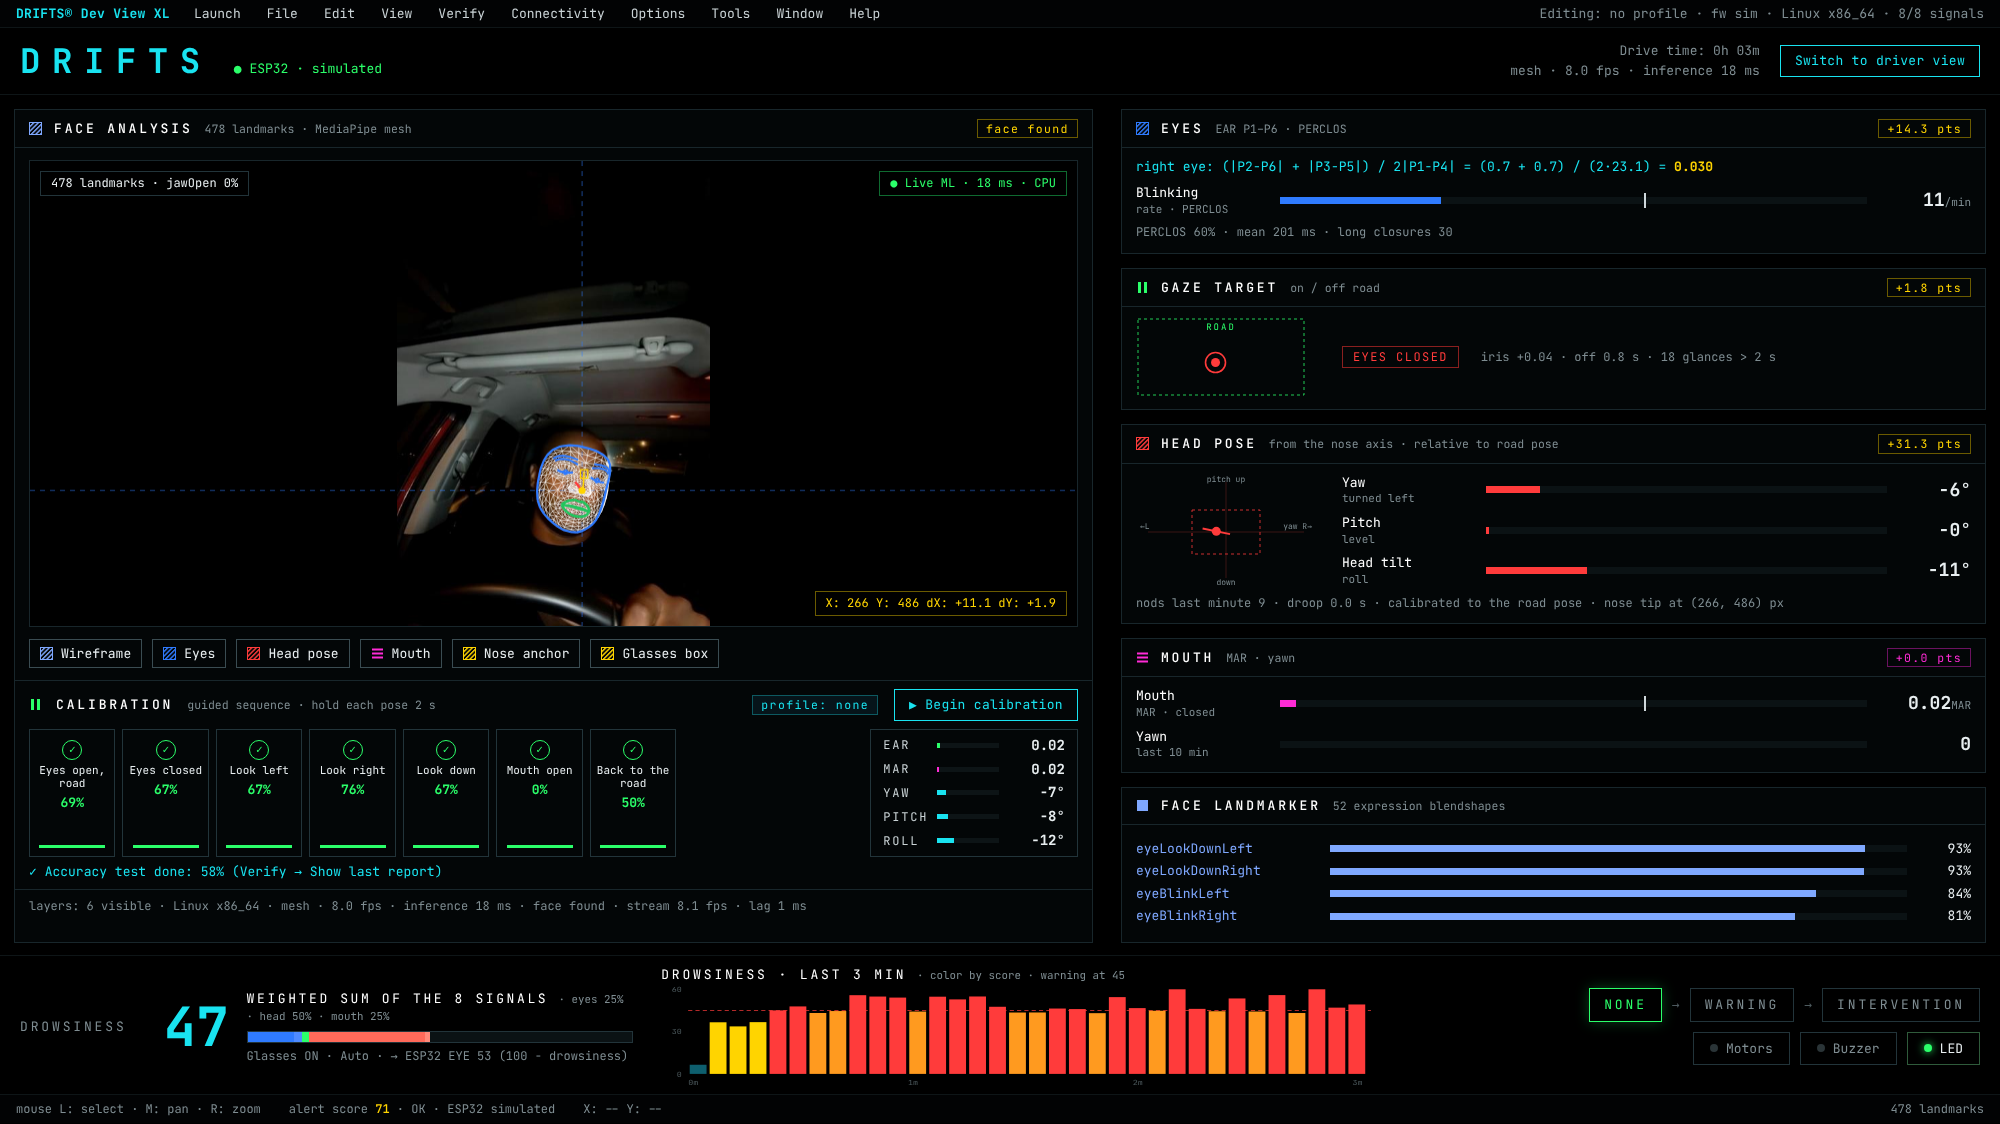
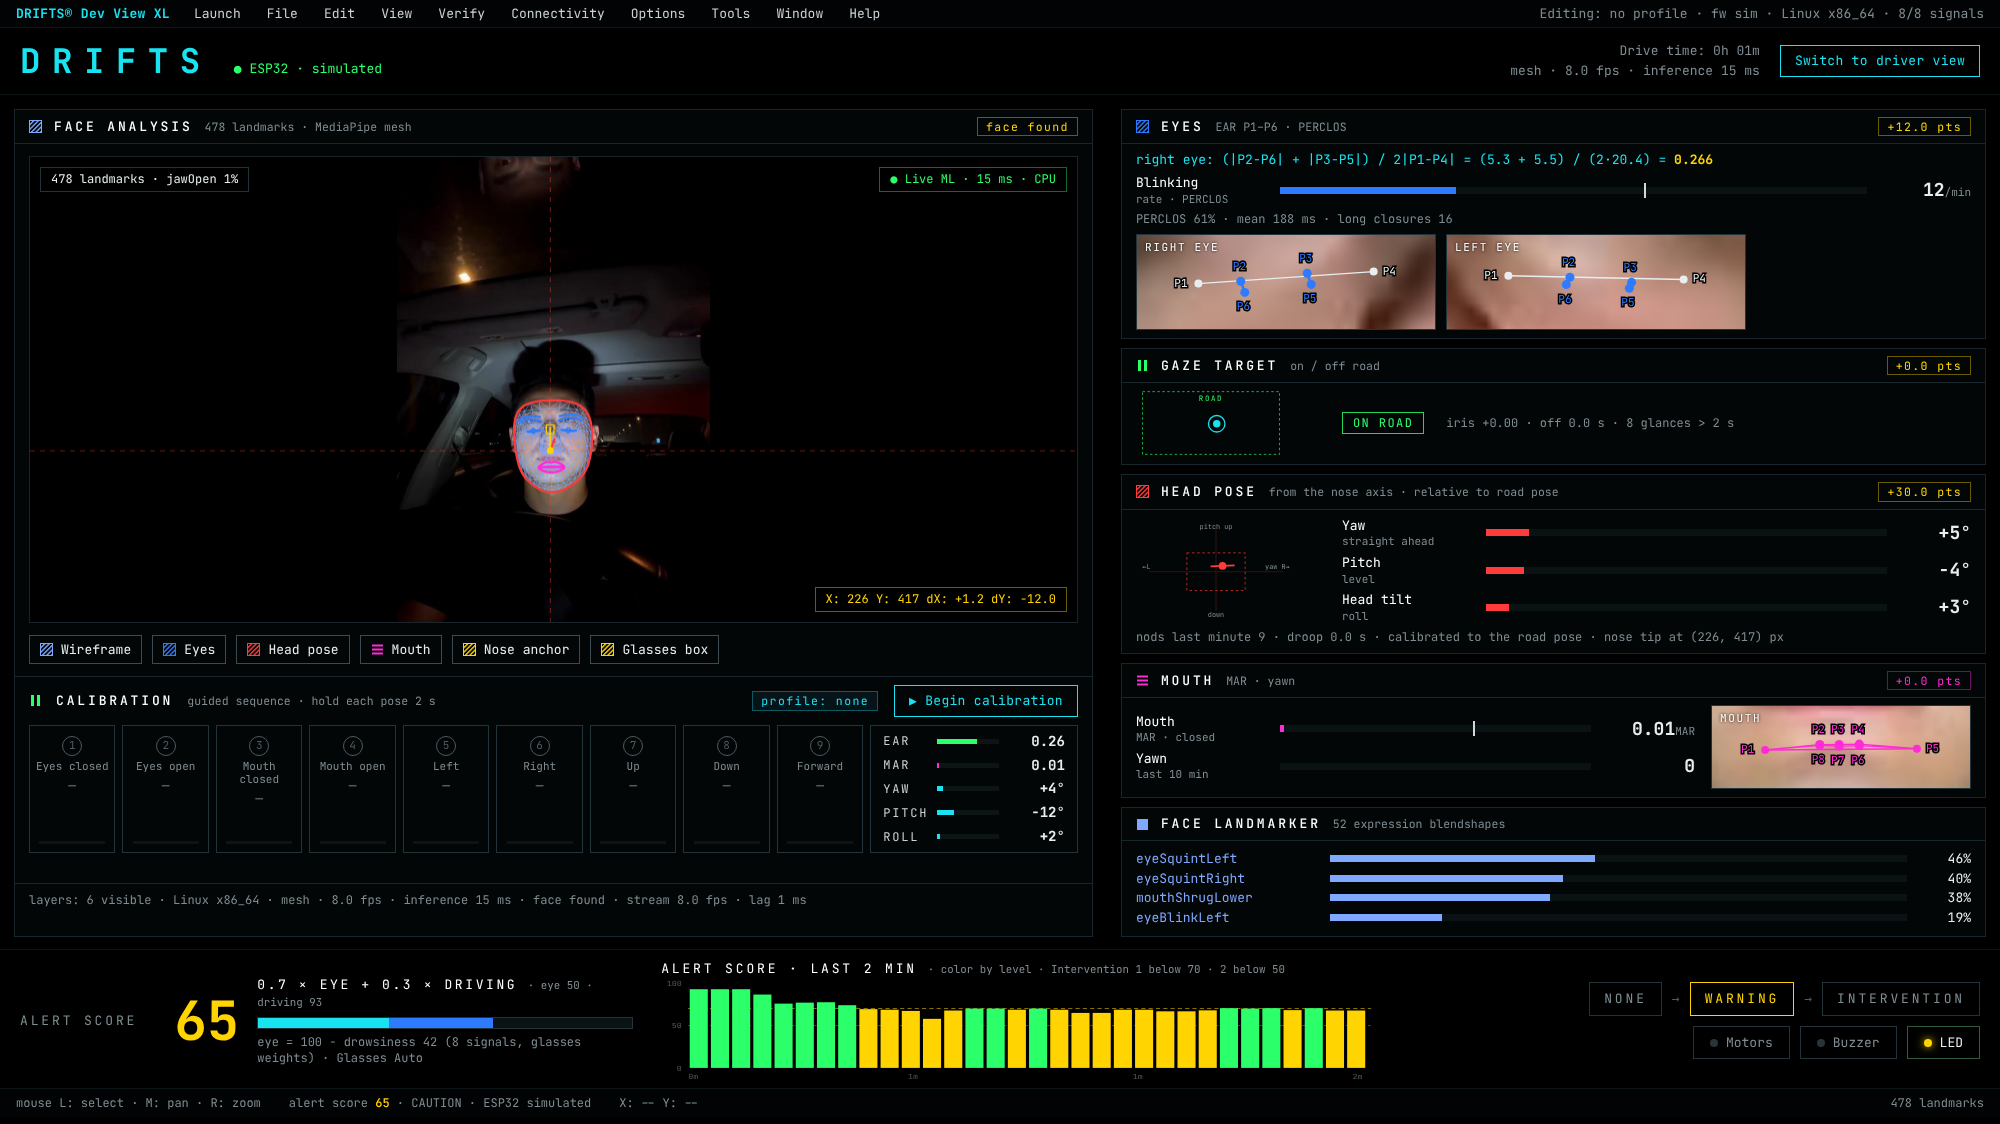
Dev view: alert score in the bottom bar, P-labelled eye and mouth close-ups
- The bottom bar shows the ESP32's alert score (0.7 x eye + 0.3 x driving)
  in its level colour, with the eye / driving split and the drowsiness
  behind the eye part. The session chart is the alert score (green >= 70,
  yellow 50-69, red < 50, dashed lines at 70 and 50).
- Close-ups drawn in the browser from the camera frame and landmarks:
  right and left eye with P1-P6, mouth with P1-P8, as used by EAR and MAR.
- Mesh colours match the layer legend: wireframe light blue, eyes blue,
  head pose red, mouth magenta, nose anchor and glasses yellow.

diff --git a/Raspberry/drifts/devview.html b/Raspberry/drifts/devview.html
@@ -37,7 +37,7 @@ button{font:inherit;color:inherit;background:none;border:0;cursor:pointer}
 /* grid */
 .grid{display:grid;grid-template-columns:minmax(0,1.11fr) minmax(0,.89fr);gap:28px;padding:14px 14px 0}
 .panel{border:1px solid var(--line);background:var(--panel)}
-.ph{display:flex;align-items:center;gap:12px;padding:9px 14px;border-bottom:1px solid var(--line)}
+.ph{display:flex;align-items:center;gap:12px;padding:7px 14px;border-bottom:1px solid var(--line)}
 .ph .t{letter-spacing:.22em;color:#fff;font-weight:500}
 .ph .s{color:var(--muted);font-size:11.5px}
 .ph .r{margin-left:auto}
@@ -79,21 +79,27 @@ button{font:inherit;color:inherit;background:none;border:0;cursor:pointer}
 .prompt{margin-top:6px;color:var(--cyan);min-height:16px}
 .foot{padding:8px 14px 10px;color:var(--muted);font-size:12px;border-top:1px solid var(--line)}
 /* right column */
-.rcol{display:flex;flex-direction:column;gap:14px}
-.pb{padding:10px 14px 12px}
+.rcol{display:flex;flex-direction:column;gap:9px}
+.pb{padding:7px 14px 8px}
 .formula{color:var(--cyan);white-space:nowrap;overflow:hidden;text-overflow:ellipsis}.formula b{color:var(--yellow)}
-.srow{display:grid;grid-template-columns:130px 1fr 90px;gap:14px;align-items:center;margin-top:8px}
+.srow{display:grid;grid-template-columns:130px 1fr 90px;gap:14px;align-items:center;margin-top:5px}
 .srow .n{color:#fff}.srow .n small{display:block;color:var(--muted);font-size:11px}
 .srow .v{text-align:right;font-size:18px;font-weight:700}.srow .v small{font-size:11px;color:var(--muted);font-weight:400}
 .track{position:relative;height:7px;background:#0b1214}
 .track u{position:absolute;left:0;top:0;bottom:0}
 .track s{position:absolute;top:-4px;bottom:-4px;width:2px;background:#cfd8db}
-.sub{color:var(--muted);font-size:12px;margin-top:8px}
+.sub{color:var(--muted);font-size:12px;margin-top:5px}
 .two{display:grid;grid-template-columns:190px 1fr;gap:16px;align-items:center}
 .pill{display:inline-block;padding:2px 10px;border:1px solid;font-size:12px;letter-spacing:.12em}
 .pill.on{color:var(--green);border-color:var(--green2)}.pill.off{color:var(--red);border-color:#8a1f1f}.pill.mid{color:var(--muted);border-color:var(--line2)}
-.bs{display:grid;grid-template-columns:180px 1fr 50px;gap:14px;align-items:center;margin:5px 0}
+.bs{display:grid;grid-template-columns:180px 1fr 50px;gap:14px;align-items:center;margin:2px 0}
 .bs .n{color:var(--blue2)}.bs .v{text-align:right}
+/* close-ups */
+.zooms{display:flex;gap:10px;margin-top:6px}
+.zoom{position:relative;flex:1;min-width:0;border:1px solid var(--line2);background:#000;height:96px;max-width:300px}
+.zoom canvas{position:absolute;inset:0;width:100%;height:100%}
+.zoom span{position:absolute;left:8px;top:5px;font-size:11px;letter-spacing:.15em;color:#fff;text-shadow:0 0 3px #000;pointer-events:none}
+.mgrid{display:grid;grid-template-columns:minmax(0,1fr) 260px;gap:16px;align-items:center}
 /* bottom bar */
 .bottom{display:grid;grid-template-columns:minmax(0,.95fr) minmax(0,1.1fr) minmax(0,.9fr);gap:28px;align-items:center;padding:10px 20px 6px;border-top:1px solid #0e1517;margin-top:12px}
 .dz{display:flex;align-items:center;gap:18px}
@@ -184,16 +190,17 @@ button{font:inherit;color:inherit;background:none;border:0;cursor:pointer}
   <div class="pb"><div class="formula" id="formula">right eye: (|P2-P6| + |P3-P5|) / 2|P1-P4|</div>
    <div class="srow"><div class="n">Blinking<small>rate · PERCLOS</small></div><div class="track"><u id="b-blink" style="background:var(--blue)"></u><s id="k-blink" style="left:62%"></s></div>
     <div class="v" id="v-blink">--<small>/min</small></div></div>
-   <div class="sub" id="s-blink">--</div></div>
+   <div class="sub" id="s-blink">--</div>
+   <div class="zooms"><div class="zoom"><canvas id="z-re"></canvas><span>RIGHT EYE</span></div><div class="zoom"><canvas id="z-le"></canvas><span>LEFT EYE</span></div></div></div>
  </section>
  <section class="panel">
   <div class="ph"><span class="ic" data-ic="bars-g"></span><span class="t">GAZE TARGET</span><span class="s">on / off road</span><span class="r chip y" id="pt-gaze">+0.0 pts</span></div>
-  <div class="pb two"><svg id="gazebox" viewBox="0 0 170 80" width="170" height="80"></svg>
+  <div class="pb two"><svg id="gazebox" viewBox="0 0 170 80" width="150" height="66"></svg>
    <div><span class="pill mid" id="gazepill">--</span> <span class="sub" id="s-gaze" style="margin-left:14px">--</span></div></div>
  </section>
  <section class="panel">
   <div class="ph"><span class="ic" data-ic="head"></span><span class="t">HEAD POSE</span><span class="s">from the nose axis · relative to road pose</span><span class="r chip y" id="pt-head">+0.0 pts</span></div>
-  <div class="pb"><div class="two"><svg id="xybox" viewBox="0 0 180 112" width="180" height="112"></svg>
+  <div class="pb"><div class="two"><svg id="xybox" viewBox="0 0 180 112" width="160" height="96"></svg>
    <div>
     <div class="srow" style="grid-template-columns:130px 1fr 70px;margin-top:0"><div class="n">Yaw<small id="d-yaw">--</small></div><div class="track"><u id="b-yaw" style="background:var(--red)"></u></div><div class="v" id="v-yaw">--°</div></div>
     <div class="srow" style="grid-template-columns:130px 1fr 70px"><div class="n">Pitch<small id="d-pitch">--</small></div><div class="track"><u id="b-pitch" style="background:var(--red)"></u></div><div class="v" id="v-pitch">--°</div></div>
@@ -203,9 +210,10 @@ button{font:inherit;color:inherit;background:none;border:0;cursor:pointer}
  </section>
  <section class="panel">
   <div class="ph"><span class="ic" data-ic="mouth"></span><span class="t">MOUTH</span><span class="s">MAR · yawn</span><span class="r chip m" id="pt-mouth">+0.0 pts</span></div>
-  <div class="pb">
+  <div class="pb mgrid"><div>
    <div class="srow" style="margin-top:0"><div class="n">Mouth<small id="d-mar">MAR</small></div><div class="track"><u id="b-mar" style="background:var(--magenta)"></u><s id="k-mar" style="left:62%"></s></div><div class="v" id="v-mar">--<small>MAR</small></div></div>
    <div class="srow"><div class="n">Yawn<small>last 10 min</small></div><div class="track"><u id="b-yawn" style="background:var(--magenta)"></u></div><div class="v" id="v-yawn">--</div></div></div>
+   <div class="zoom" style="height:84px"><canvas id="z-mo"></canvas><span>MOUTH</span></div></div>
  </section>
  <section class="panel">
   <div class="ph"><span class="ic" data-ic="sq"></span><span class="t">FACE LANDMARKER</span><span class="s">52 expression blendshapes</span></div>
@@ -216,10 +224,10 @@ button{font:inherit;color:inherit;background:none;border:0;cursor:pointer}
 
 <!-- ============================== bottom bar ============================== -->
 <div class="bottom">
- <div class="dz"><span class="lbl">DROWSINESS</span><span class="big" id="dz">--</span>
-  <div class="w"><div class="t">WEIGHTED SUM OF THE 8 SIGNALS <small id="wset">· eyes 55% · head 25% · mouth 20%</small></div>
+ <div class="dz"><span class="lbl">ALERT SCORE</span><span class="big" id="dz">--</span>
+  <div class="w"><div class="t">0.7 × EYE + 0.3 × DRIVING <small id="wset">· from the ESP32</small></div>
    <div class="stack" id="stack"></div><div class="sub" style="margin:0" id="dzsub">--</div></div></div>
- <div class="chart"><div class="t">DROWSINESS · <span id="chtitle">LAST -- MIN</span> <small>· color by score · warning at 45</small></div>
+ <div class="chart"><div class="t">ALERT SCORE · <span id="chtitle">LAST -- MIN</span> <small>· color by level · Intervention 1 below 70 · 2 below 50</small></div>
   <svg id="chart" viewBox="0 0 680 118" preserveAspectRatio="none"></svg></div>
  <div class="tiers"><div class="fsm"><span class="node n0" id="n0">NONE</span><span class="arrow">→</span><span class="node n1" id="n1">WARNING</span><span class="arrow">→</span><span class="node n2" id="n2">INTERVENTION</span></div>
   <div class="outs"><div class="out" id="o-motor"><i></i>Motors</div><div class="out" id="o-buzz"><i></i>Buzzer</div><div class="out" id="o-led"><i></i>LED</div></div></div>
@@ -280,11 +288,12 @@ function frame(){const g=geom();ctx.fillStyle="#000";ctx.fillRect(0,0,g.W,g.H);
   else ctx.drawImage(img,g.ox,g.oy,g.iw*g.k,g.ih*g.k);ctx.restore()}
  if(pkt&&pkt.found&&pkt.lm.length>=956){
   const nose=P(g,1);
-  if(layers.has("head")){dashLine(0,nose[1],g.W,nose[1],"rgba(47,123,255,.55)",g);dashLine(nose[0],0,nose[0],g.H,"rgba(47,123,255,.55)",g)}
-  if(layers.has("mesh"))path(g,mesh.mesh,"#ffffff",.6,.55);
-  if(layers.has("head"))path(g,mesh.oval,C.blue,2.2);
+  if(layers.has("head")){dashLine(0,nose[1],g.W,nose[1],"rgba(255,59,59,.45)",g);dashLine(nose[0],0,nose[0],g.H,"rgba(255,59,59,.45)",g)}
+  // each layer in its legend colour (the toggle icons below the camera)
+  if(layers.has("mesh"))path(g,mesh.mesh,C.blue2,.6,.55);
+  if(layers.has("head"))path(g,mesh.oval,C.red,2.2);
   if(layers.has("eyes")){path(g,mesh.eyes,C.blue,2);path(g,mesh.brows,C.blue,2);path(g,mesh.irises,C.blue,1.6)}
-  if(layers.has("mouth"))path(g,mesh.lips,"#22c55e",2.6);
+  if(layers.has("mouth"))path(g,mesh.lips,C.magenta,2.4);
   if(layers.has("head")&&face.yaw!=null){const L=60*g.d*view.s,y=(face.yaw||0)*Math.PI/180,p=(face.pitch||0)*Math.PI/180;
    const sx=mir()?-1:1;ctx.strokeStyle=C.red;ctx.lineWidth=2.2*g.d;ctx.beginPath();ctx.moveTo(nose[0],nose[1]);
    ctx.lineTo(nose[0]+sx*Math.sin(y)*L,nose[1]+Math.sin(p)*L);ctx.stroke()}
@@ -294,7 +303,31 @@ function frame(){const g=geom();ctx.fillStyle="#000";ctx.fillRect(0,0,g.W,g.H);
   if(layers.has("glasses")){const a=P(g,133),b=P(g,362),iod=Math.hypot(a[0]-b[0],a[1]-b[1]),c=P(g,168);
    ctx.strokeStyle=face.glasses?C.yellow:"rgba(255,212,0,.45)";ctx.lineWidth=1.2*g.d;ctx.strokeRect(c[0]-.2*iod,c[1]-.12*iod,.4*iod,.46*iod)}
   const s=sel!=null?sel:hover;if(s!=null){const q=P(g,s);ctx.strokeStyle=C.cyan;ctx.lineWidth=1.5*g.d;ctx.beginPath();ctx.arc(q[0],q[1],6*g.d,0,7);ctx.stroke()}}
+ drawZooms();
  requestAnimationFrame(frame)}
+// Close-ups with the EAR / MAR points labelled, cropped from the camera frame (camera view, not mirrored).
+const EAR_R=[33,160,158,133,153,144],EAR_L=[362,385,387,263,373,380],MOUTH=[78,82,13,312,308,317,14,87];
+function zoomDraw(id,idx,col,kind){const c=$(id);if(!c)return;const r=c.getBoundingClientRect(),d=window.devicePixelRatio||1;
+ if(c.width!==Math.round(r.width*d)){c.width=Math.round(r.width*d);c.height=Math.round(r.height*d)}
+ const z=c.getContext("2d"),W=c.width,H=c.height;z.fillStyle="#000";z.fillRect(0,0,W,H);
+ if(!pkt||!pkt.found||!img.naturalWidth)return;const L=pkt.lm,pt=i=>[L[2*i],L[2*i+1]];
+ const ps=idx.map(pt),xs=ps.map(p=>p[0]),ys=ps.map(p=>p[1]);
+ const cx=(Math.min(...xs)+Math.max(...xs))/2,cy=(Math.min(...ys)+Math.max(...ys))/2;
+ const hw=Math.max(8,(Math.max(...xs)-Math.min(...xs))*0.85),hh=hw*H/W;
+ const sx=W/(2*hw),ox=cx-hw,oy=cy-hh,P=p=>[(p[0]-ox)*sx,(p[1]-oy)*sx];
+ const kx=img.naturalWidth/(pkt.w||img.naturalWidth),ky=img.naturalHeight/(pkt.h||img.naturalHeight);
+ z.drawImage(img,ox*kx,oy*ky,2*hw*kx,2*hh*ky,0,0,W,H);
+ const q=ps.map(P),line=(a,b,w,cc)=>{z.strokeStyle=cc||col;z.lineWidth=w*d;z.beginPath();z.moveTo(q[a][0],q[a][1]);z.lineTo(q[b][0],q[b][1]);z.stroke()};
+ if(kind==="eye"){line(0,3,1.4,"#e8eef0");line(1,5,2.6);line(2,4,2.6)}
+ else{z.strokeStyle=col;z.lineWidth=1.2*d;z.beginPath();q.forEach((p,i)=>i?z.lineTo(p[0],p[1]):z.moveTo(p[0],p[1]));z.closePath();z.stroke();
+  line(0,4,1.4);line(1,7,2.4);line(2,6,2.4);line(3,5,2.4)}
+ z.font=`${11*d}px "JetBrains Mono",monospace`;z.textBaseline="middle";
+ q.forEach((p,i)=>{const corner=kind==="eye"?(i===0||i===3):(i===0||i===4);
+  z.fillStyle=corner&&kind==="eye"?"#e8eef0":col;z.beginPath();z.arc(p[0],p[1],(corner?4:4.5)*d,0,7);z.fill();
+  const up=kind==="eye"?(i===1||i===2):(i>=1&&i<=3),down=kind==="eye"?(i===4||i===5):(i>=5);
+  const lx=p[0]+(corner?(p[0]<W/2?-24:9):-8)*d,ly=p[1]+(up?-14:down?15:0)*d;
+  z.lineWidth=3*d;z.strokeStyle="#000";z.strokeText("P"+(i+1),lx,ly);z.fillStyle=corner&&kind==="eye"?"#e8eef0":col;z.fillText("P"+(i+1),lx,ly)})}
+function drawZooms(){zoomDraw("z-re",EAR_R,C.blue,"eye");zoomDraw("z-le",EAR_L,C.blue,"eye");zoomDraw("z-mo",MOUTH,C.magenta,"mouth")}
 requestAnimationFrame(frame);
 // mouse: L select a landmark, M (or Shift) drag pan, R drag or wheel zoom, double-click reset
 let drag=null;
@@ -376,17 +409,18 @@ function xyBox(p,f){const W=180,H=112,cx=90,cy=58,y=p.yaw,pi=p.pitch,ok=f.found&
   <text x="${cx}" y="8" fill="${C.muted||"#7f8d92"}" font-size="8" text-anchor="middle">pitch up</text><text x="${cx}" y="${H-1}" fill="#7f8d92" font-size="8" text-anchor="middle">down</text>
   <text x="4" y="${cy-3}" fill="#7f8d92" font-size="8">←L</text><text x="${W-4}" y="${cy-3}" fill="#7f8d92" font-size="8" text-anchor="end">yaw R→</text>
   ${ok?`<line x1="${x-14*Math.cos(a)}" y1="${yy-14*Math.sin(a)}" x2="${x+14*Math.cos(a)}" y2="${yy+14*Math.sin(a)}" stroke="${C.red}" stroke-width="2"/><circle cx="${x}" cy="${yy}" r="4.5" fill="${C.red}"/>`:""}`}
-function colorFor(v){return v>=45?C.red:v>=38?C.orange:v>=30?C.yellow:v>=18?C.cyan:"#0e5f6e"}
-function drawChart(hist){const svg=$("chart"),W=680,H=118,L=26,B=16,T=6,max=60,vals=hist.map(h=>h[1]);
+function colorFor(v){return v>=70?C.green:v>=50?C.yellow:C.red}
+function drawChart(vals){const svg=$("chart"),W=680,H=118,L=26,B=16,T=6,max=100;
  const n=Math.min(40,Math.max(1,vals.length)),per=Math.max(1,Math.ceil(vals.length/n)),bars=[];
  for(let i=0;i<vals.length;i+=per){const c=vals.slice(i,i+per).filter(v=>v!=null);bars.push(c.length?c.reduce((a,b)=>a+b,0)/c.length:null)}
  const y=v=>T+(1-Math.min(max,v)/max)*(H-T-B),bw=(W-L-4)/Math.max(bars.length,1);let s="";
- [0,30,60].forEach(g=>s+=`<text x="${L-6}" y="${y(g)+3}" fill="#4d5a5e" font-size="8" text-anchor="end">${g}</text>`);
- s+=`<line x1="${L}" x2="${W}" y1="${y(45)}" y2="${y(45)}" stroke="${C.red}" stroke-dasharray="4 3" opacity=".7"/>`;
+ [0,50,100].forEach(g=>s+=`<text x="${L-6}" y="${y(g)+3}" fill="#4d5a5e" font-size="8" text-anchor="end">${g}</text>`);
+ s+=`<line x1="${L}" x2="${W}" y1="${y(70)}" y2="${y(70)}" stroke="${C.yellow}" stroke-dasharray="4 3" opacity=".7"/>`;
+ s+=`<line x1="${L}" x2="${W}" y1="${y(50)}" y2="${y(50)}" stroke="${C.red}" stroke-dasharray="4 3" opacity=".7"/>`;
  bars.forEach((v,i)=>{if(v==null)return;s+=`<rect x="${L+i*bw+1.5}" y="${y(v)}" width="${Math.max(1,bw-3)}" height="${H-B-y(v)}" fill="${colorFor(v)}"/>`});
  const mins=vals.length/60;for(let k=0;k<4;k++){const x=L+k/3*(W-L-8);s+=`<text x="${x}" y="${H-3}" fill="#4d5a5e" font-size="8" text-anchor="${k===0?"start":k===3?"end":"middle"}">${Math.round(k/3*mins)}m</text>`}
  svg.innerHTML=s;$("chtitle").textContent=`LAST ${Math.max(1,Math.round(mins))} MIN`}
-async function loadChart(){try{drawChart(await (await fetch("/drowsy.json")).json())}catch(e){}}
+async function loadChart(){try{drawChart((await (await fetch("/history.json")).json()).score||[])}catch(e){}}
 setInterval(loadChart,5000);loadChart();
 
 async function tick(){try{status=await (await fetch("/status.json",{cache:"no-store"})).json()}catch(e){$("link").textContent="● dashboard offline";$("link").className="lk off";return}
@@ -433,10 +467,15 @@ async function tick(){try{status=await (await fetch("/status.json",{cache:"no-st
  const bs=Object.entries(f.blend||{}).filter(([k])=>k!=="_neutral").sort((a,b)=>b[1]-a[1]).slice(0,4);
  $("blend").innerHTML=bs.length?bs.map(([k,v])=>`<div class="bs"><span class="n">${k}</span><div class="track"><u style="width:${v*100}%;background:${C.blue2}"></u></div><span class="v">${Math.round(v*100)}%</span></div>`).join(""):'<div class="sub">no face</div>';
  // composite
- $("dz").textContent=f.drowsiness==null?"--":Math.round(f.drowsiness);
- $("stack").innerHTML=Object.keys(SIGCL).map(k=>{const q=P_[k],w=q&&q.points?q.points:0;return `<span title="${k} +${w.toFixed(1)}" style="width:${w}%;background:${SCOL[k]}"></span>`}).join("");
- $("wset").textContent=f.glasses?"· eyes 25% · head 50% · mouth 25%":"· eyes 55% · head 25% · mouth 20%";
- $("dzsub").textContent=`Glasses ${f.glasses?"ON":"OFF"} · ${({auto:"Auto",on:"On",off:"Off"})[f.glasses_mode]||"--"} · → ESP32 EYE ${f.face_score==null?"--":Math.round(f.face_score)} (100 − drowsiness)`;
+ // alert score: the ESP32's own number (0.7 x eye + 0.3 x driving), coloured by its level
+ const asc=live?e.score:null,band=(s.ui||{}).band;
+ $("dz").textContent=asc==null?"--":Math.round(asc);
+ $("dz").style.color=band==="normal"?C.green:band==="caution"?C.yellow:band==="high"?C.red:C.dim;
+ const eyeS=e.eye!=null?e.eye:f.face_score,drv=e.drv_score;
+ const eyePart=eyeS==null?0:0.7*eyeS,drvPart=drv==null?0:0.3*drv;
+ $("stack").innerHTML=`<span title="eye 0.7 x ${fx(eyeS)}" style="width:${eyePart}%;background:${C.cyan}"></span><span title="driving 0.3 x ${fx(drv)}" style="width:${drvPart}%;background:${C.blue}"></span>`;
+ $("wset").textContent=`· eye ${fx(eyeS)} · driving ${fx(drv)}${e.part?" · partial: driving only":""}`;
+ $("dzsub").textContent=`eye = 100 − drowsiness ${fx(f.drowsiness)} (8 signals, ${f.glasses?"glasses weights":"eyes 55% · head 25% · mouth 20%"}) · Glasses ${({auto:"Auto",on:"On",off:"Off"})[f.glasses_mode]||"--"}`;
  // tiers + outputs
  const out=s.outputs;let tier=0;if(out)tier=Math.min(2,out.level||0);else if(e.alert||e.lvl==="LOW")tier=2;else if(e.lvl==="CAUTION")tier=1;
  ["n0","n1","n2"].forEach((id,i)=>$(id).classList.toggle("on",i===tier));

diff --git a/Docs/dev-view.md b/Docs/dev-view.md
@@ -54,14 +54,14 @@ Open http://localhost:8080/dev in Chrome or Edge, full screen (F11), then:
 | Area | Shows |
 | --- | --- |
 | Menu bar | **Launch** (calibration, accuracy test), **File** (download report, drowsiness history, status), **Edit** (copy status, copy the selected landmark), **View** (layers, mirror, reset zoom), **Verify**, **Connectivity** (ESP32 link, stream fps, lag), **Options** (glasses Auto / On / Off), **Tools** (beep the ESP32, re-take the road pose), **Window**, **Help** |
-| Face analysis | camera + mesh; landmark count and jawOpen; inference time and delegate; nose-tip X / Y and its motion. Layer toggles: Wireframe, Eyes, Head pose, Mouth, Nose anchor, Glasses box |
+| Face analysis | camera + mesh, each landmark group in its legend colour: wireframe light blue, eyes / brows / irises blue, head pose (face oval, nose axis, crosshair) red, mouth magenta, nose anchor and glasses box yellow. Landmark count and jawOpen; inference time and delegate; nose-tip X / Y and its motion |
 | Calibration | the nine pose cards, the live EAR / MAR / yaw / pitch / roll, the current prompt |
-| Eyes | EAR formula worked through live, blink rate, PERCLOS, mean blink, long closures |
+| Eyes | EAR formula worked through live, blink rate, PERCLOS, mean blink, long closures; **close-ups of both eyes with P1–P6 labelled** (P1 / P4 corners white, P2–P3 / P5–P6 blue) |
 | Gaze target | where the driver is looking, against the dashed ROAD box; ON ROAD / OFF ROAD / EYES CLOSED |
 | Head pose | yaw / pitch box and bars relative to the road pose, nods, droop |
-| Mouth | MAR and the yawn count |
+| Mouth | MAR and the yawn count; **close-up with P1–P8 labelled** (P1 / P5 corners, P2–P8, P3–P7, P4–P6 openings), magenta |
 | Face landmarker | the four strongest of the 52 blendshapes |
-| Bottom bar | composite drowsiness and its 8-signal stack; drowsiness over the session (bars coloured by score, warning line at 45); NONE → WARNING → INTERVENTION; motors, buzzer, LED |
+| Bottom bar | the **alert score** from the ESP32 (0.7 × eye + 0.3 × driving), coloured by level, with its eye / driving split and the drowsiness behind the eye part; the alert score over the session (bars green ≥ 70, yellow 50–69, red < 50, dashed lines at 70 and 50); NONE → WARNING → INTERVENTION; motors, buzzer, LED |
 | Status bar | the alert score, and the selected landmark's index and normalised X / Y |
 
 **Mouse:**
